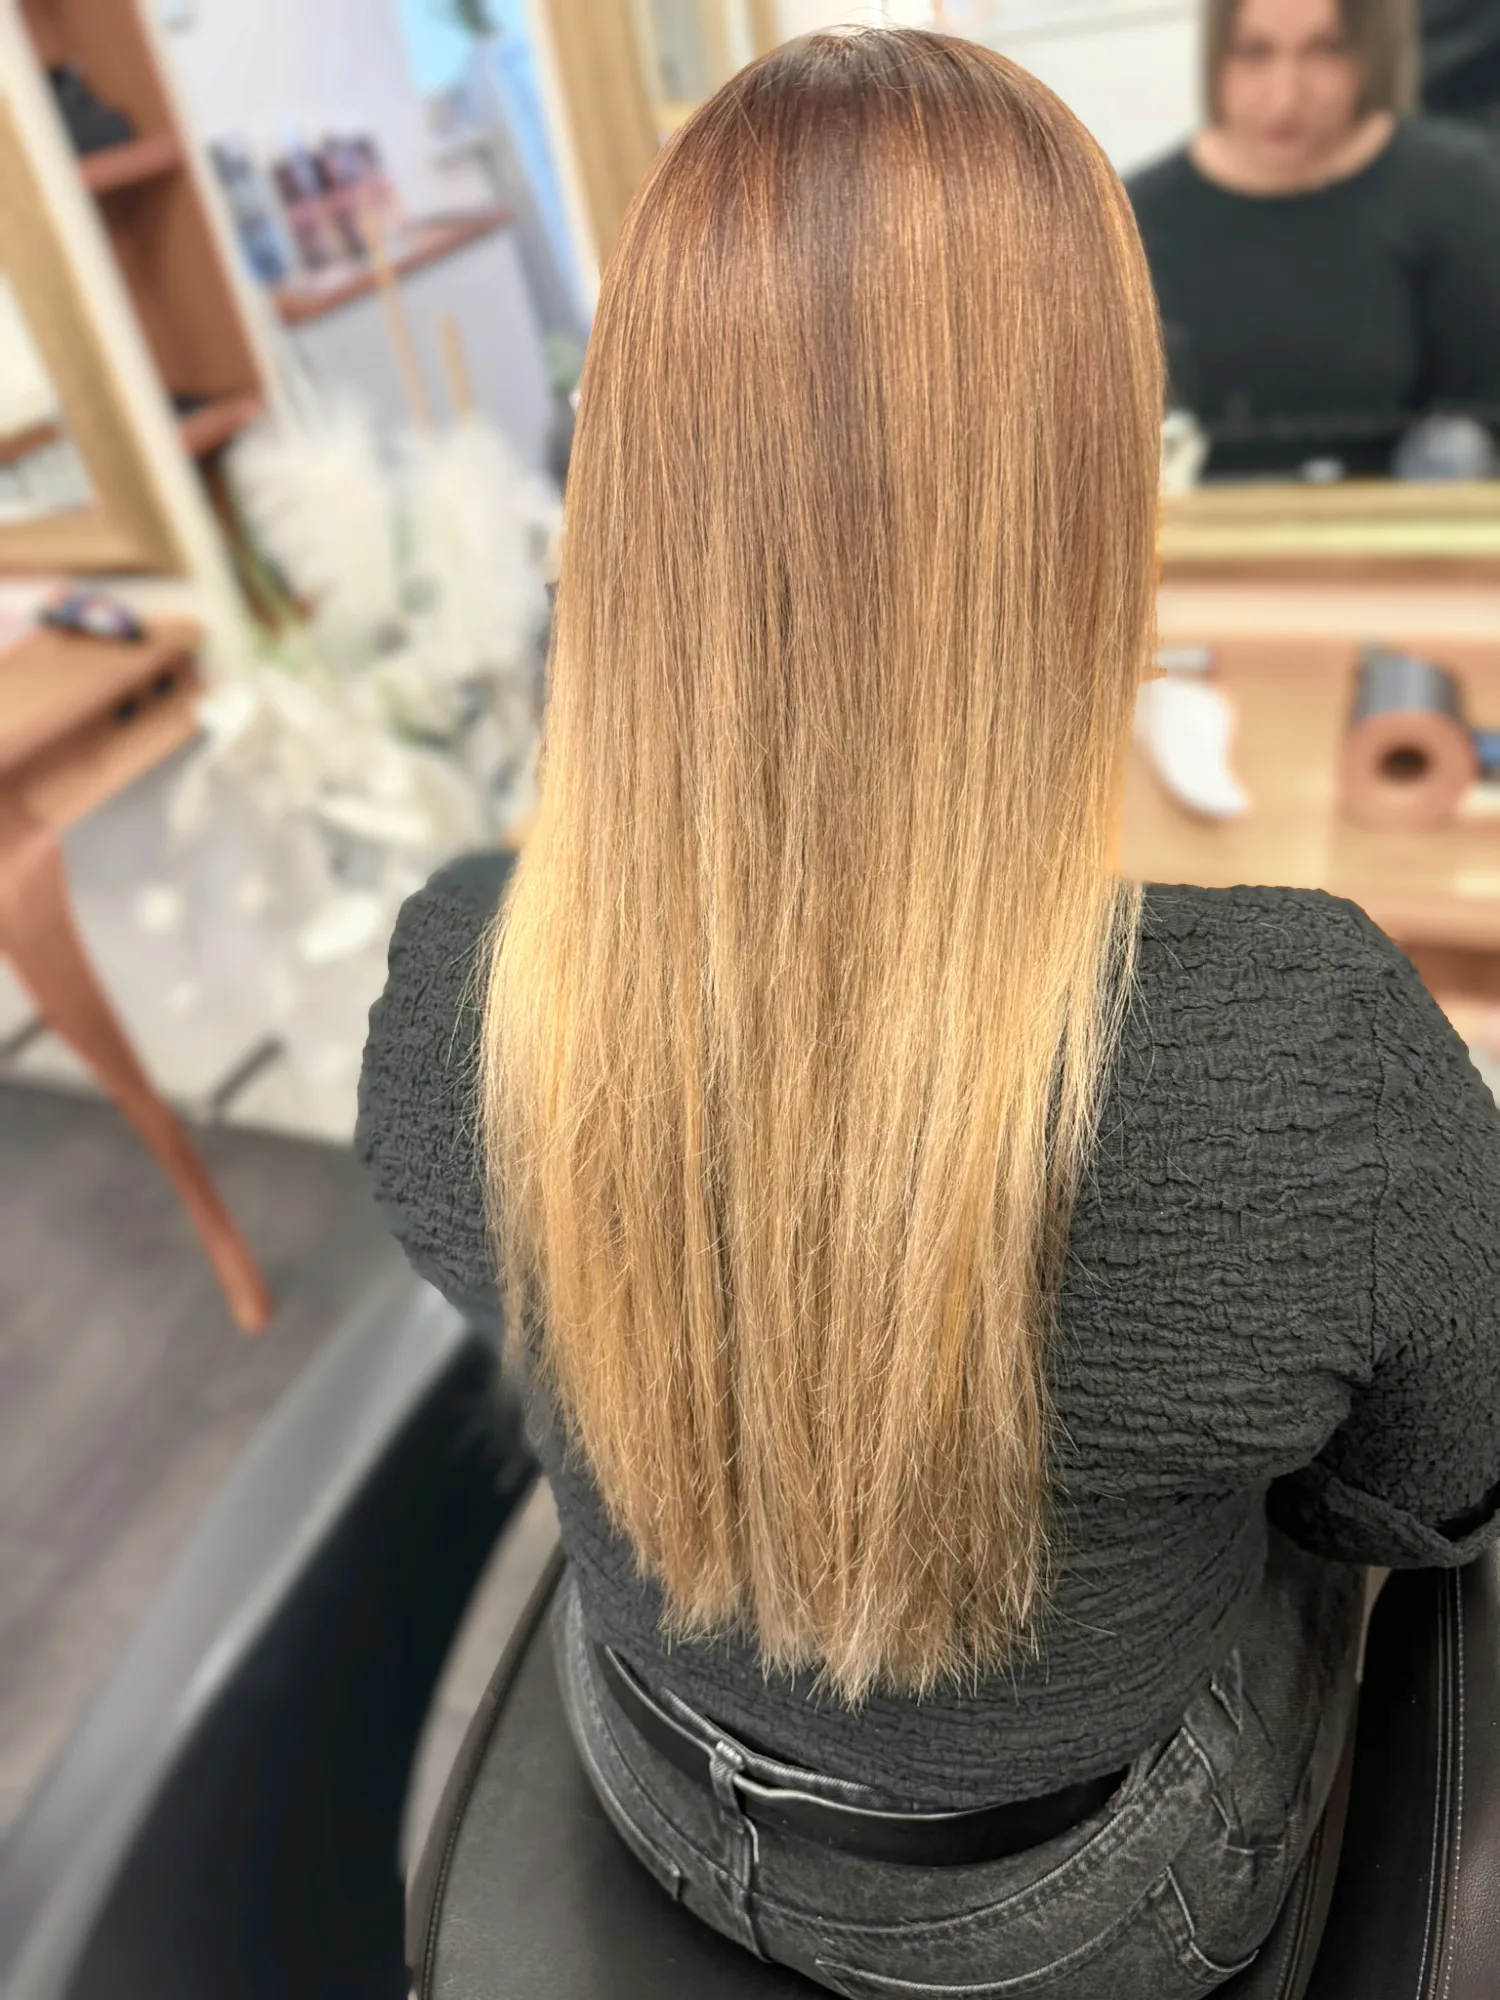
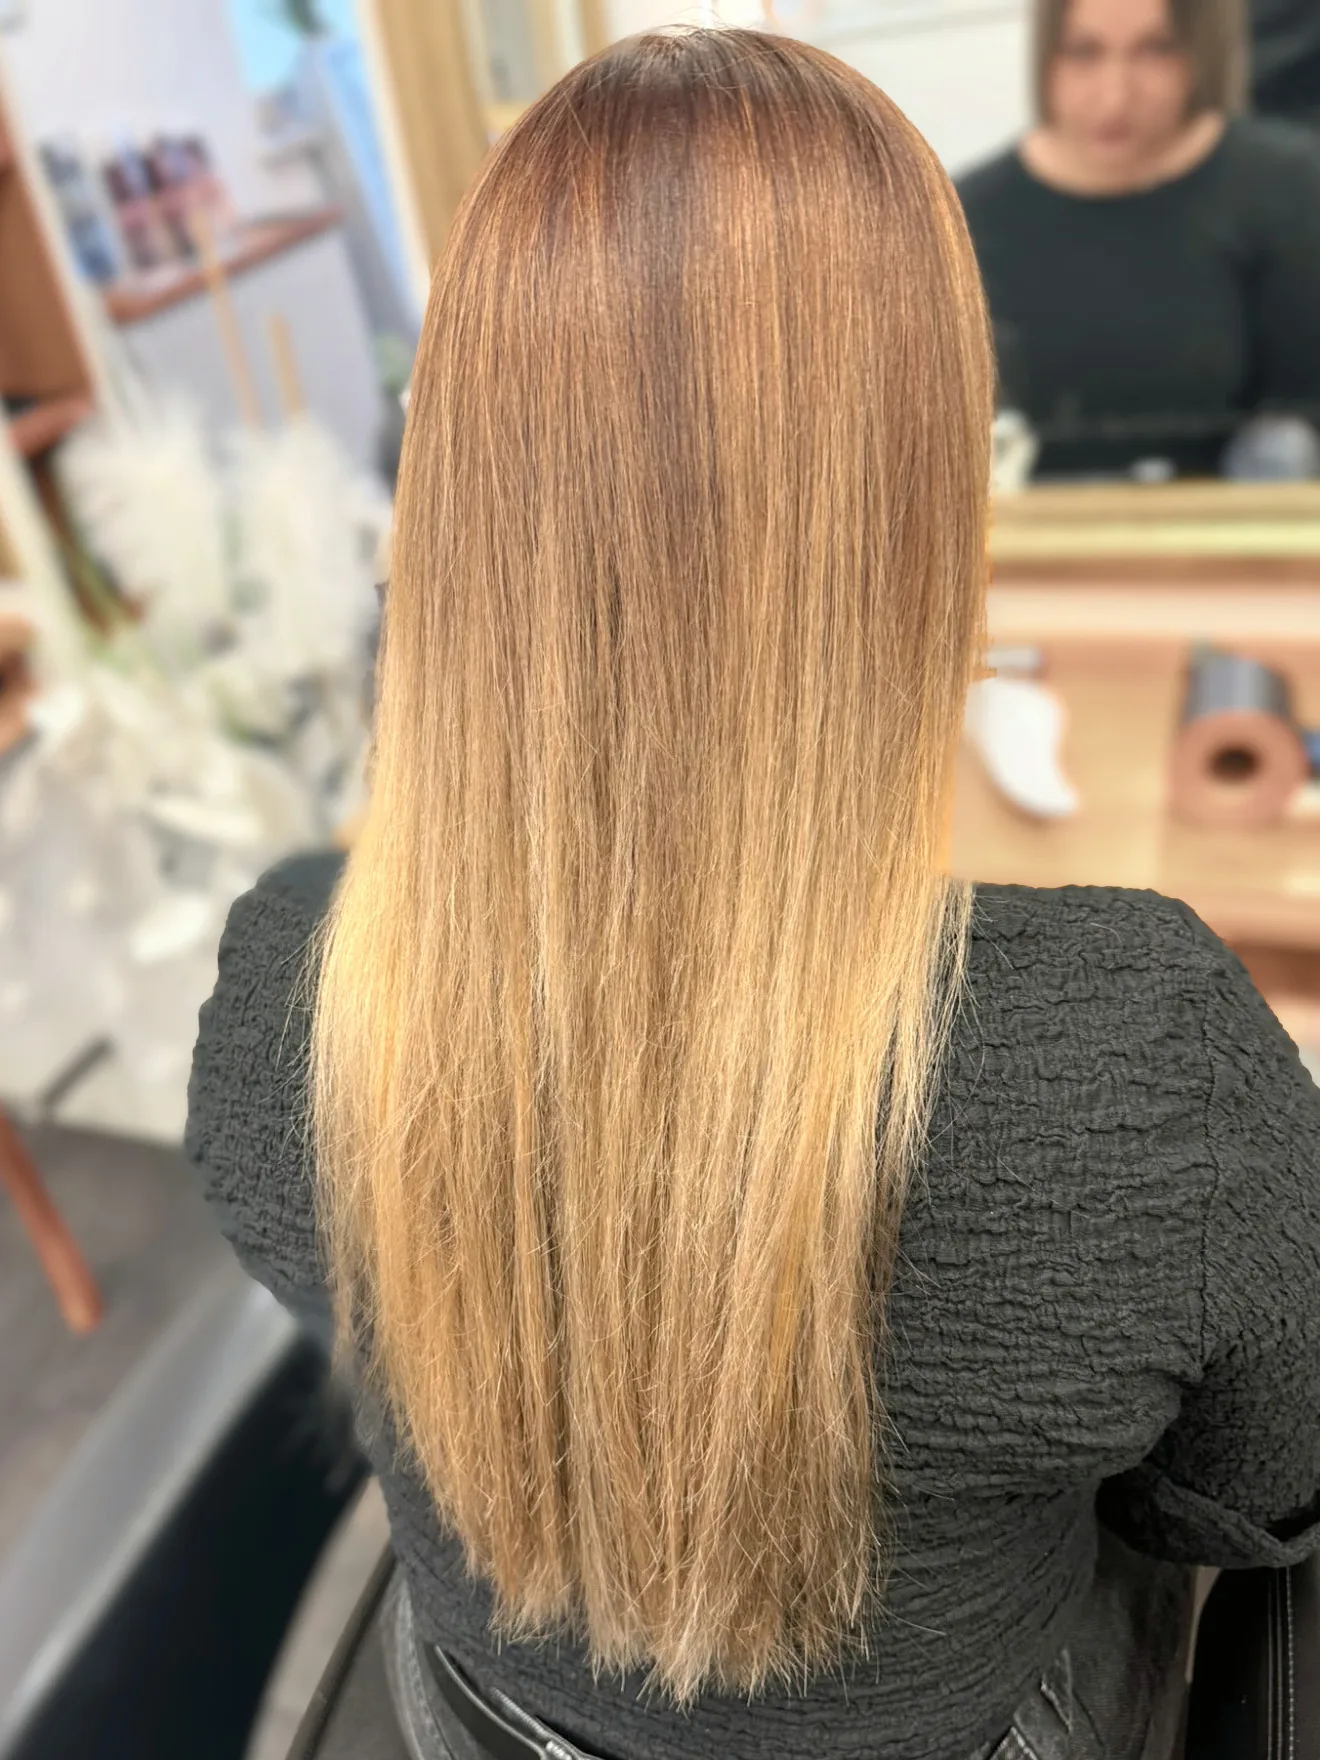
Galerie: Extensions-Foto enger zugeschnitten

diff --git a/index.html b/index.html
@@ -1985,7 +1985,7 @@ function renderGal(k,ch,gr,n){const keys=[...Object.keys(GL).filter(g=>FOTO[g]),
  document.getElementById(ch).innerHTML=keys.map(g=>`<button type="button" class="tab${g===k?" on":""}" data-g="${g}">${GL[g]}</button>`).join("");
  const el=document.getElementById(gr);
  if(k==="videos"){el.innerHTML=VIDEO.map(v=>`<div class="gph vid" role="button" tabindex="0" aria-label="Video aus unserem Salon abspielen" data-video="video_v${v}.mp4?v=1" style="background-image:url(m_video_v${v}.webp?v=1)"><span class="play" aria-hidden="true">▶</span></div>`).join("");return}
- el.innerHTML=FOTO[k].map(p=>BA[p]?`<div class="gph ba" role="slider" tabindex="0" aria-label="Vorher und Nachher vergleichen" aria-valuemin="0" aria-valuemax="100" aria-valuenow="50" style="background-image:url(m_foto_${BA[p][0]}.webp?v=2)"><div class="baA" style="background-image:url(m_foto_${BA[p][1]}.webp?v=2)"></div><span class="bal"></span><span class="bak" aria-hidden="true">‹›</span><span class="bt l">Vorher</span><span class="bt r">Nachher</span></div>`:`<div class="gph${WIDE[p]?" wide":""}" role="button" tabindex="0" aria-label="${GL[k]}: ${WIDE[p]?"Produkte in unserem Salon":"Arbeit aus unserem Salon"}, Foto in groß öffnen" data-full="foto_${p}.webp?v=2" style="background-image:url(m_foto_${p}.webp?v=2)"></div>`).join("")}
+ el.innerHTML=FOTO[k].map(p=>BA[p]?`<div class="gph ba" role="slider" tabindex="0" aria-label="Vorher und Nachher vergleichen" aria-valuemin="0" aria-valuemax="100" aria-valuenow="50" style="background-image:url(m_foto_${BA[p][0]}.webp?v=2)"><div class="baA" style="background-image:url(m_foto_${BA[p][1]}.webp?v=2)"></div><span class="bal"></span><span class="bak" aria-hidden="true">‹›</span><span class="bt l">Vorher</span><span class="bt r">Nachher</span></div>`:`<div class="gph${WIDE[p]?" wide":""}" role="button" tabindex="0" aria-label="${GL[k]}: ${WIDE[p]?"Produkte in unserem Salon":"Arbeit aus unserem Salon"}, Foto in groß öffnen" data-full="foto_${p}.webp?v=3" style="background-image:url(m_foto_${p}.webp?v=3)"></div>`).join("")}
 /* Vorher/Nachher-Schieber: ziehen (Maus/Finger), Pfeiltasten */
 function baSet(t,p){p=Math.max(0,Math.min(100,p));t.style.setProperty("--p",p+"%");t.setAttribute("aria-valuenow",Math.round(p))}
 let BAT=null;
